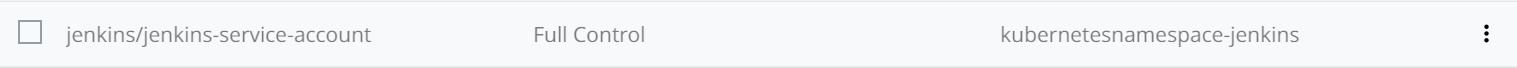
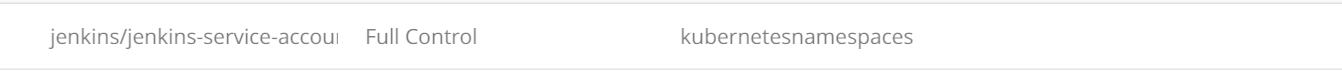
Updated to reflect UCP 3.0.2

diff --git a/docs/kubernetes.md b/docs/kubernetes.md
@@ -17,7 +17,7 @@ $ kubectl apply -f jenkins-ns.yaml
 
 Due to a limitation in Docker EE 2.0, we have to manually configure permissions for the Jenkins SA rather than using Kubernetes RBAC yaml. This should be changing soon. 
 
-Login to your UCP as an Administrator > User Management > Grants. Click New Grant in the top corner, and create a Full Control. Using the Jenkins Namespace as your Resource Set, Full Control as your Role, and the Jenkins-Servie-Account as your subject. 
+Login to your UCP as an Administrator > User Management > Grants. To mount the Docker Socket into a Slave container, we require some high privileges. Click New Grant in the top corner, select the Jenkins Service account, the Role Full Control and the Resource Set is All Namespaces.
 
 ![SA RBAC](/docs/images/sarbac.png?raw=true "SA RBAC")
 
